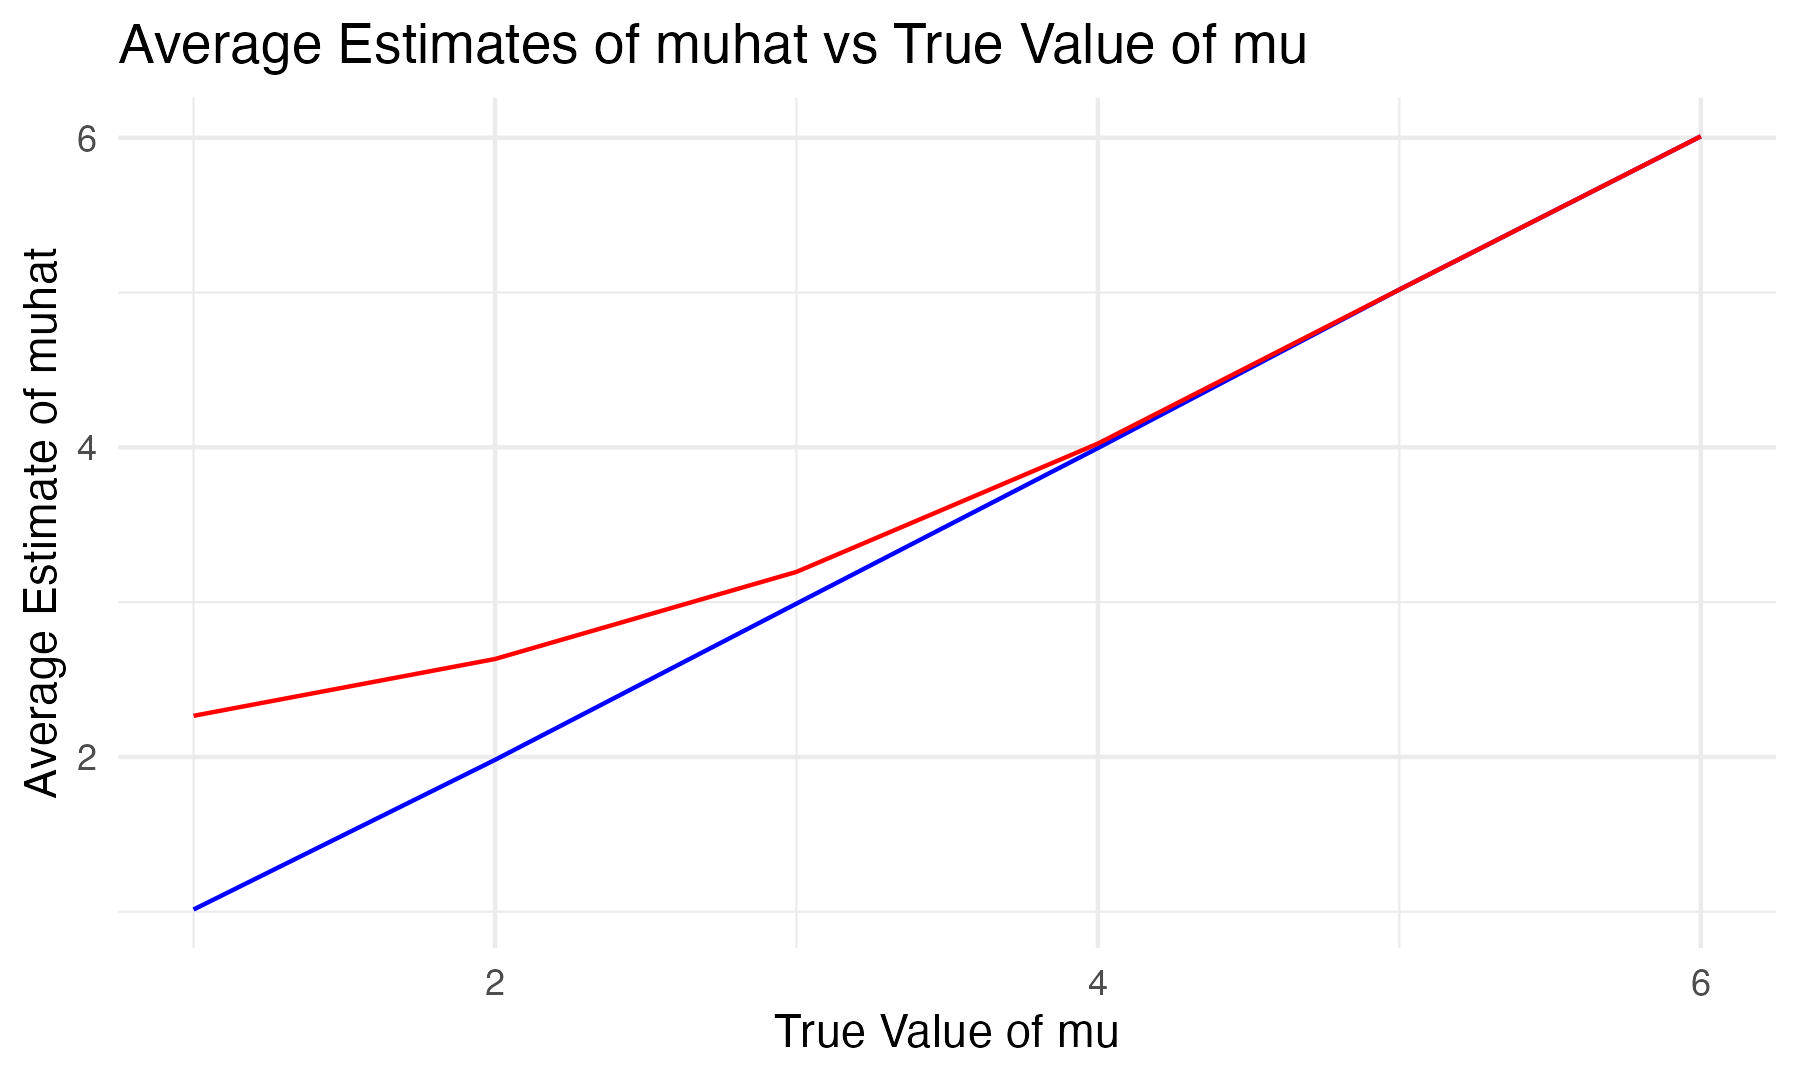
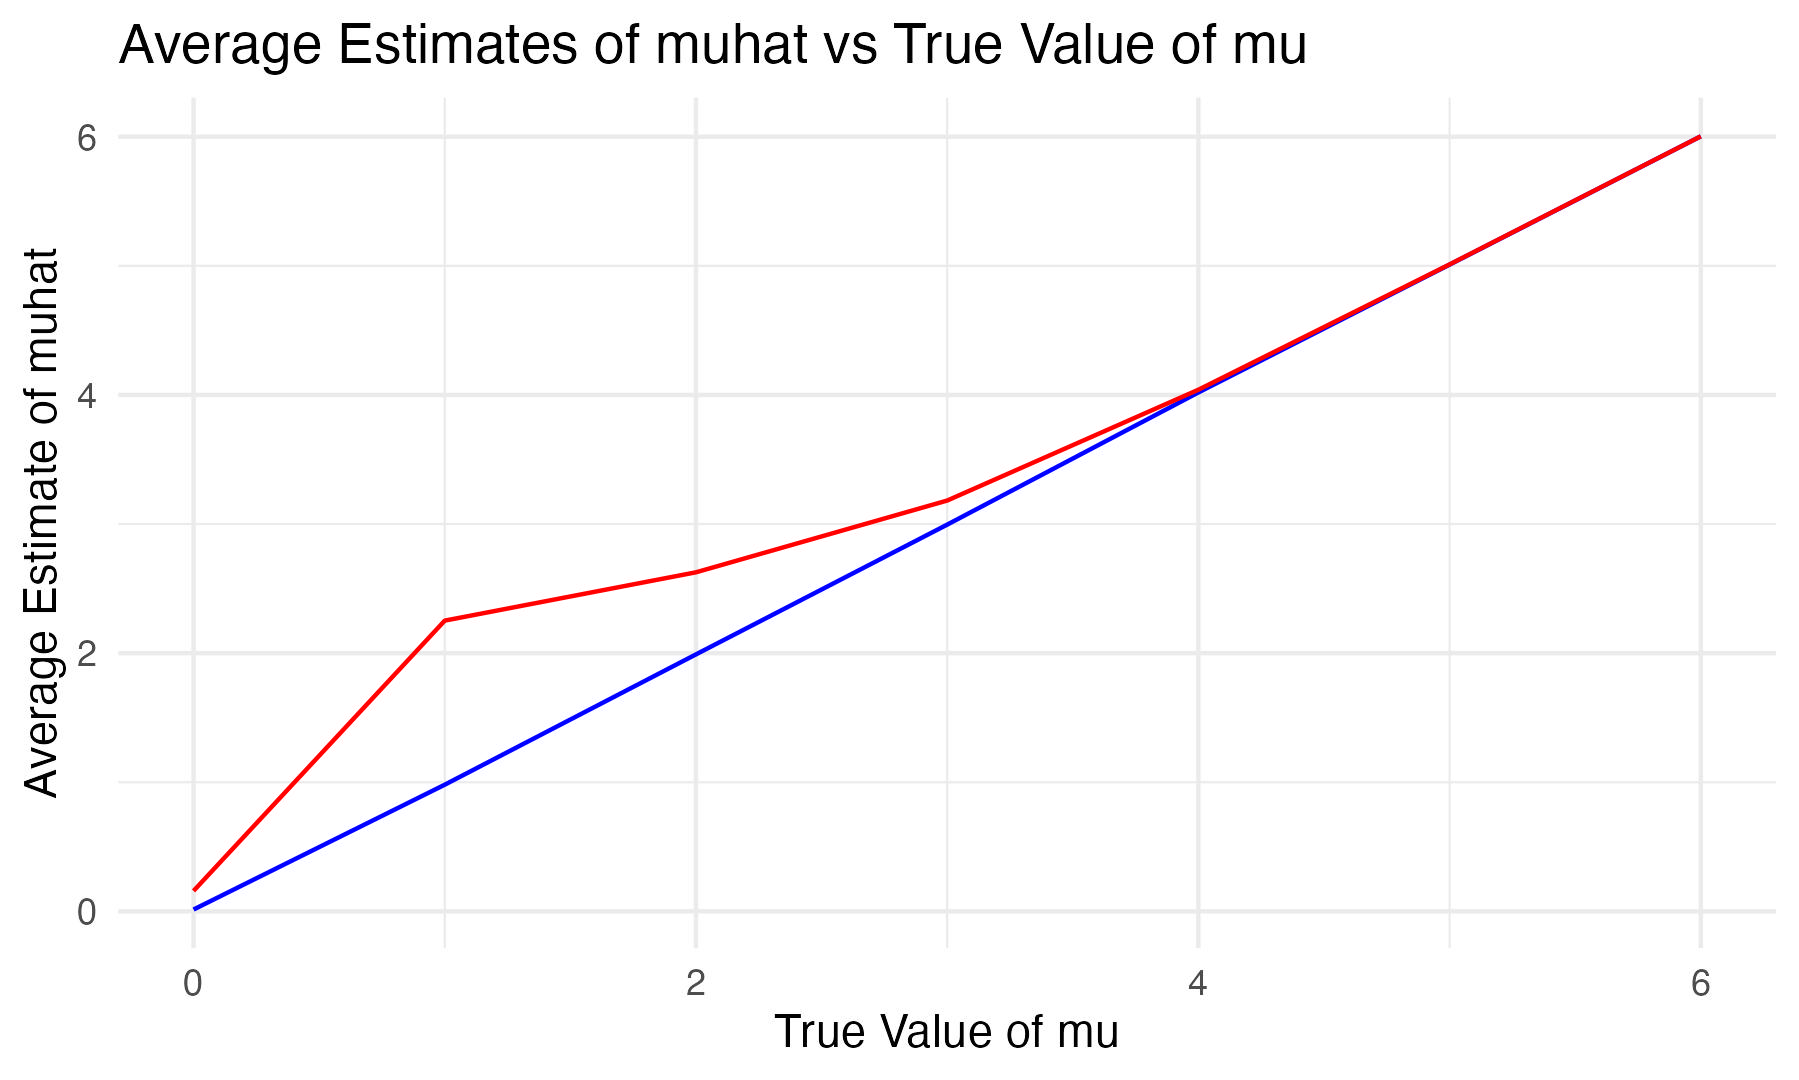
completed word explanation & fix mu range and detail plot format

diff --git a/p8105_hw5_zl2746.md b/p8105_hw5_zl2746.md
@@ -146,8 +146,7 @@ prop_test_results |>
   - Iterate over file names and read in data for each subject using
     purrr::map and saving the result as a new variable in the dataframe
     \*Tidy the result; manipulate file names to include control arm and
-    subject ID, make sure weekly observations are “tidy”, and do any
-    other tidying that’s necessary
+    subject ID, make sure weekly observations are “tidy”
 
 ``` r
 fulldata = 
@@ -384,10 +383,12 @@ spaghetti_plot
 <img src="p8105_hw5_zl2746_files/figure-gfm/unnamed-chunk-8-1.png" width="90%" />
 
 ``` r
-ggsave("spaghetti_plot.jpg")
+ggsave("spaghetti_plot.jpg",width = 10, height = 5)
 ```
 
-    ## Saving 6 x 3.6 in image
+The spaghetti plot displays two groups: Control (purple) has more stable
+and consistent measurements, and Experimental (yellow) has wider
+variance and a small increasing trends over time.
 
 ## Problem 3
 
@@ -428,7 +429,7 @@ mu0_results =
 ``` r
 sim_result_df =
   expand_grid(
-    mu = 1:6,
+    mu = 0:6,
     iter = 1:5000
   ) |> 
   mutate(estimate_df = map(mu, ~sim_t_test(.x))) |> 
@@ -436,20 +437,20 @@ sim_result_df =
 sim_result_df
 ```
 
-    ## # A tibble: 30,000 × 10
+    ## # A tibble: 35,000 × 10
     ##       mu  iter estimate statistic p.value parameter conf.low conf.high method   
     ##    <int> <int>    <dbl>     <dbl>   <dbl>     <dbl>    <dbl>     <dbl> <chr>    
-    ##  1     1     1   -0.913    -1.13   0.267         29   -2.56      0.736 One Samp…
-    ##  2     1     2    1.51      1.46   0.156         29   -0.612     3.64  One Samp…
-    ##  3     1     3    1.51      1.47   0.153         29   -0.592     3.61  One Samp…
-    ##  4     1     4    0.802     0.969  0.341         29   -0.892     2.50  One Samp…
-    ##  5     1     5    2.01      2.46   0.0203        29    0.336     3.68  One Samp…
-    ##  6     1     6    1.05      1.52   0.140         29   -0.368     2.48  One Samp…
-    ##  7     1     7   -0.923    -1.21   0.234         29   -2.48      0.631 One Samp…
-    ##  8     1     8   -0.261    -0.347  0.731         29   -1.80      1.28  One Samp…
-    ##  9     1     9    0.882     1.02   0.315         29   -0.881     2.64  One Samp…
-    ## 10     1    10    0.472     0.479  0.636         29   -1.54      2.49  One Samp…
-    ## # ℹ 29,990 more rows
+    ##  1     0     1  -1.91     -2.37    0.0245        29   -3.56     -0.264 One Samp…
+    ##  2     0     2   0.514     0.495   0.624         29   -1.61      2.64  One Samp…
+    ##  3     0     3   0.509     0.495   0.624         29   -1.59      2.61  One Samp…
+    ##  4     0     4  -0.198    -0.239   0.813         29   -1.89      1.50  One Samp…
+    ##  5     0     5   1.01      1.23    0.228         29   -0.664     2.68  One Samp…
+    ##  6     0     6   0.0546    0.0785  0.938         29   -1.37      1.48  One Samp…
+    ##  7     0     7  -1.92     -2.53    0.0170        29   -3.48     -0.369 One Samp…
+    ##  8     0     8  -1.26     -1.67    0.105         29   -2.80      0.280 One Samp…
+    ##  9     0     9  -0.118    -0.137   0.892         29   -1.88      1.64  One Samp…
+    ## 10     0    10  -0.528    -0.536   0.596         29   -2.54      1.49  One Samp…
+    ## # ℹ 34,990 more rows
     ## # ℹ 1 more variable: alternative <chr>
 
 ``` r
@@ -459,11 +460,15 @@ power_df =
   summarize(power = mean(p.value < 0.05)) |>
   ggplot(aes(x = mu,y = power)) +
   geom_path() +
+  geom_smooth() +
   labs(title = "Power of the Test vs. True Value of mu",
        x = "True Value of mu",
-       y = "Power of the Test")
+       y = "Power of the Test") +
+  theme_minimal()
 power_df
 ```
+
+    ## `geom_smooth()` using method = 'loess' and formula = 'y ~ x'
 
 <img src="p8105_hw5_zl2746_files/figure-gfm/unnamed-chunk-10-1.png" width="90%" />
 
@@ -472,8 +477,11 @@ ggsave("Power of the Test vs. True Value of mu.jpg")
 ```
 
     ## Saving 6 x 3.6 in image
+    ## `geom_smooth()` using method = 'loess' and formula = 'y ~ x'
 
-The power increases when the effect size of $\mu$ increases.
+The power increases when the effect size of $\mu$ increases. And the
+probability of rejection is close to 0.05 as the significant level we
+choose.
 
 - Make a plot showing the average estimate of μ̂ on the y axis and the
   true value of μ on the x axis.
@@ -492,18 +500,18 @@ avg_estimates =
 avg_estimates
 ```
 
-    ## # A tibble: 6 × 3
+    ## # A tibble: 7 × 3
     ##      mu avg_mu_hat_all avg_mu_hat_rejected
     ##   <int>          <dbl>               <dbl>
-    ## 1     1           1.01                2.27
-    ## 2     2           1.98                2.63
-    ## 3     3           2.99                3.20
-    ## 4     4           4.00                4.02
-    ## 5     5           5.02                5.02
-    ## 6     6           6.01                6.01
+    ## 1     0         0.0141               0.158
+    ## 2     1         0.981                2.25 
+    ## 3     2         1.99                 2.63 
+    ## 4     3         3.00                 3.18 
+    ## 5     4         4.02                 4.04 
+    ## 6     5         5.01                 5.01 
+    ## 7     6         6.00                 6.00
 
 ``` r
-# Plotting the average estimates
 avg_estimate_plot = 
   avg_estimates |>
   ggplot(aes(x = mu)) +
@@ -525,7 +533,15 @@ ggsave("The average estimates plot.jpg")
 
     ## Saving 6 x 3.6 in image
 
+The average estimates plot shows that the average estimate of μ is
+approximately equal to the true value of μ. However, the average
+estimate of μ̂ only in samples for which the null was rejected have some
+difference with the true value of μ.
+
+The following distribution of μ shows some reason for this difference.
+
 ``` r
+# Distribution of mu
 sim_result_df |>
   ggplot(aes(x = estimate))+ 
   geom_histogram() +
